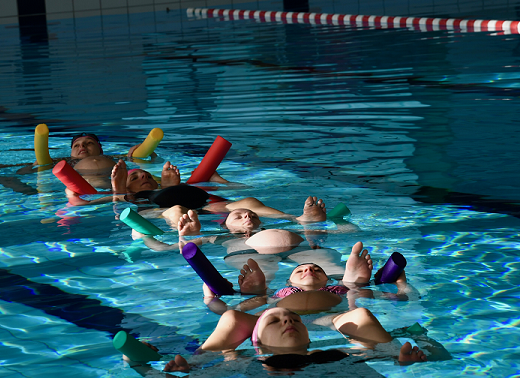
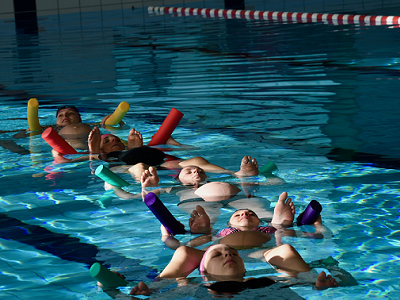
ajustements images et cartes

diff --git a/src/app/activites/activites.component.html b/src/app/activites/activites.component.html
@@ -1,12 +1,12 @@
 <head></head>
 
-<div class="row row-cols-1 row-cols-md-3 g-4 activites centre">
+<div class="row row-cols-1 row-cols-md-3 g-4 activites centre d-flex align-items-stretch">
 
    <div *ngFor="let nomActivite of listeNomActivites$ | async" class="col">
-      <div class="card h-20 container">
+      <div class="card h-100 container">
         <img src="/assets/images/{{nomActivite}}.PNG" class="card-img-top" alt="{{nomActivite}}">
         <div class="card-body">
-          <h1 class="card-title">Cours de {{nomActivite}}</h1>
+          <h1 class="card-title">{{nomActivite}}</h1>
           <p *ngIf="nomActivite==='Lecon personnelle'" class="card-text">La natation sportive consiste à parcourir dans une piscine, le plus rapidement possible et dans un style codifié par la Fédération internationale de natation, une distance donnée, sans l'aide d'aucun accessoire. La natation sportive peut être pratiquée à tout âge.</p>
           <p *ngIf="nomActivite==='Aquagym'" class="card-text">L'aquagym est la performance d'un exercice aérobie dans l'eau comme dans une piscine. Fait principalement verticalement et sans nager généralement dans des eaux profondes ou plus profondes, c'est un type d'entraînement en résistance.</p>
           <p *ngIf="nomActivite==='Aquabike'" class="card-text">L'aquabike en tant que pratique sportive enchaînée et gérée par la Fédération internationale de triathlon est un sport dérivé du triathlon. Il enchaîne sans interruption, une partie natation en eaux vives et de cyclisme sur route. Il se pratique sur courte, moyenne et longue distance.</p>
@@ -18,14 +18,14 @@
           <p *ngIf="nomActivite==='Waterpolo'" class="card-text">Un sport d’équipe, qui nécessite rapidité, adresse et endurance, pour lequel deux équipes de 7 joueurs s’opposent dans une piscine avec un ballon. Objectif : marquer plus de buts que les adversaires!</p>
 
          </div>
-        <div class="d-grid gap-2 col-6 mx-auto">       
+        <div class="d-grid gap-2 col-6 mx-auto">
           <button type="button" class="btn-primary btn btn-sm" (click)="goListSameName(nomActivite)">S'inscrire</button>
           <!-- <button type="button" class="btn-info btn btn-sm" routerLink= "/infosNatation">Plus d'informations</button> -->
         </div>
       </div>
    </div>
 
-<!-- 
+<!--
    <div *ngFor="let nomActivite of listeNomActivites$ | async" class="container">
       <div class="image">
          <img src="/assets/images/{{nomActivite}}.PNG" class="img" alt="{{nomActivite}}" style="width:50%">

diff --git a/src/app/activites/activites.component.css b/src/app/activites/activites.component.css
@@ -9,13 +9,15 @@
   justify-content: space-evenly;
 }
 
+
+
 img {
   border: 2px solid black;
-  width: 400px;
-  height: 240px;
+  width: 100%;
+  max-width: 400px;
+  height: auto;
   display: block;
   margin : auto;
-  
 }
 
 
@@ -27,5 +29,10 @@ img {
   flex-wrap: wrap;
   align-content: flex-start;
   height: fit-content;
-
 }
+
+.card-text{
+  font-size:17px;
+}
+
+
